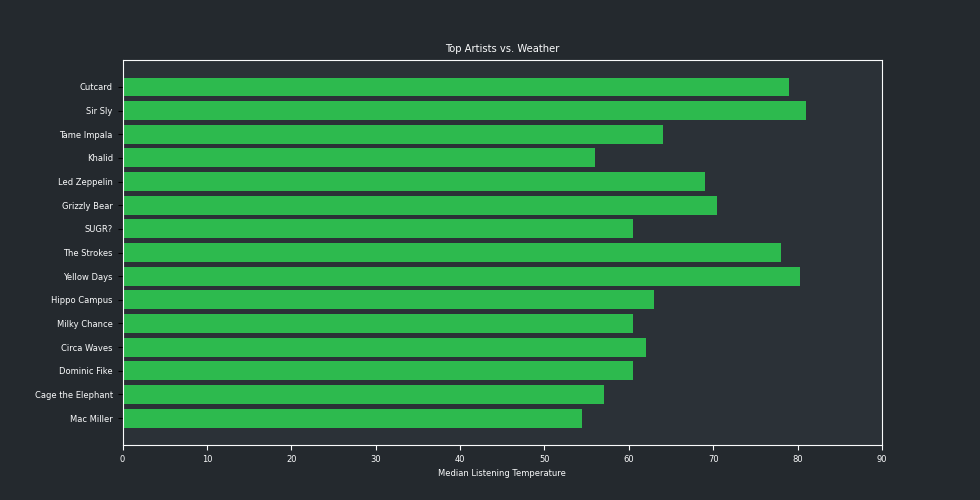
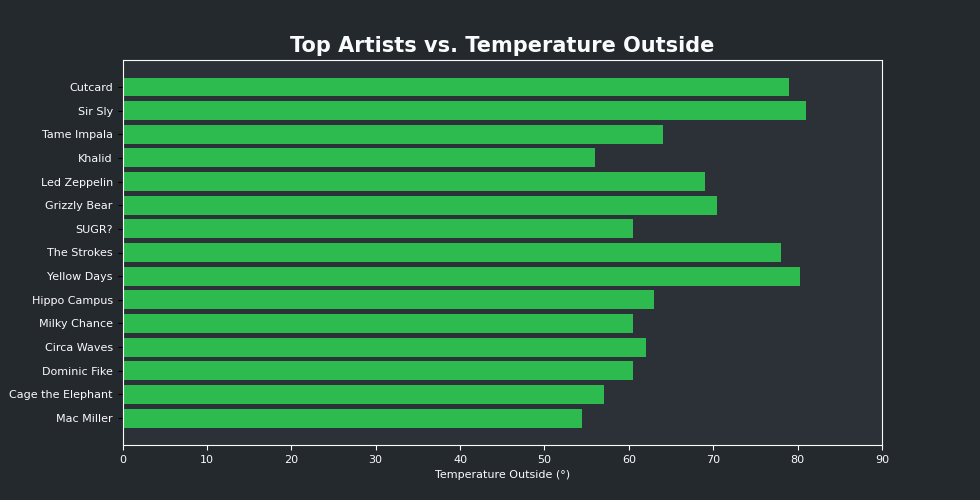
Graph Label Changes

diff --git a/Test.py b/Test.py
@@ -76,7 +76,7 @@ fig = plt.figure(1)
 fig.set_figheight(5)
 fig.set_figwidth(9.8)
 plt.rc('axes',edgecolor='#fafbfc')
-plt.rcParams.update({'font.size': 6})
+plt.rcParams.update({'font.size': 8})
 ax = fig.add_subplot(1, 1, 1)
 rect = fig.patch
 rect.set_facecolor('#24292e')
@@ -106,7 +106,7 @@ plt.barh(artists, temperatures, color='#2dba4e')
 ax = plt.gca()
 ax.XColor ='#fafbfc'
 ax.set_facecolor('#2b3137')
-ax.set_title('Top Artists vs. Temperature', color='#fafbfc')
+ax.set_title('Top Artists vs. Temperature Outside', color='#fafbfc', fontsize=15, fontweight='bold')
 ax.tick_params(axis='x', colors='#fafbfc')
 ax.set_xlabel('Temperature Outside (°)', color='#fafbfc')
 ax.set_yticks(range(len(artists)))
